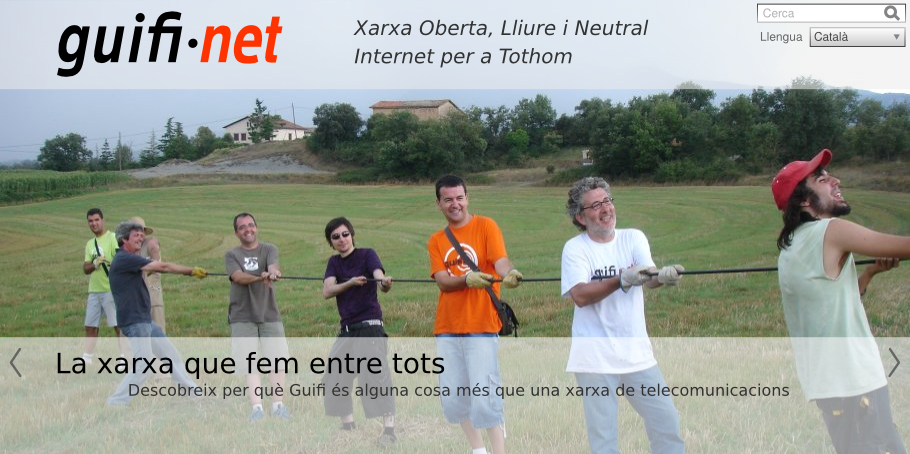
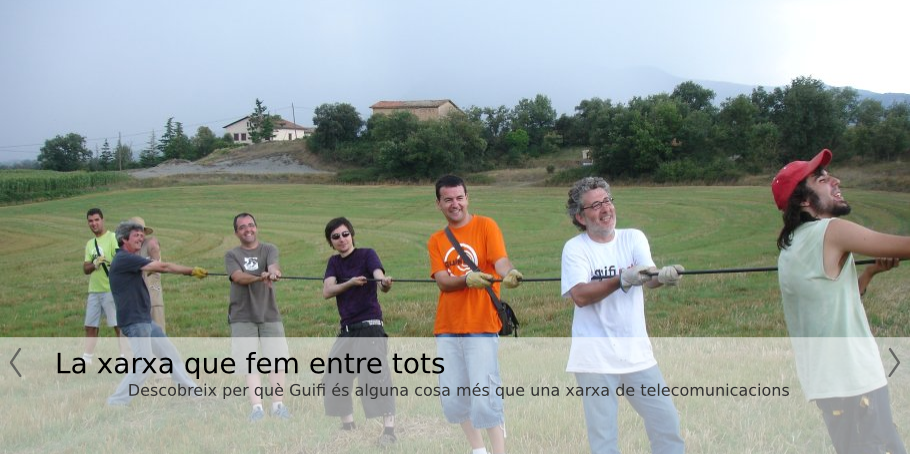
Part superior de la pàgina començada a convertir a HTML

diff --git a/portada.html b/portada.html
@@ -44,26 +44,33 @@
         </div>
         <div id="pagina">
             <div id="principal" style="overflow: hidden">
-                <img src="img/banner.png"/>
+                <div id="banner">
+                    <a href="http://guifi.net" title="Guifi.net" id="logo"><h1><img src="img/guifi-logo.png" alt="Guifi.net" title="Guifi.net" /></h1></a>
+                    <a href="http://guifi.net" title="Guifi.net" id="slogan"><h2>Xarxa Oberta, Lliure i Neutral<br />Internet per a Tothom</h2></a>
+                    <img src="img/capsa-banner.png" style="position:absolute;top:3px;right:3px" />
+                </div>
+                <div id="banner-slider">
+                    <img src="img/banner.png" style="margin-top:-89px" />
+                </div>
                 <div id="cos">
             	    <div id="botons">
                         <a class="capsa boto" id="boto1" href="#">
                             <div class="dins">
-                  	        <h2 class="titol-boto">Què és Guifi.net?</h2>
+                  	        <h3 class="titol-boto">Què és Guifi.net?</h3>
                                 <p class="text-boto">Una xarxa que<br />uneix persones</p>
                                 <div class="fletxa"></div>
                             </div>
                         </a>
                         <a class="capsa boto" id="boto2" href="#">
                             <div class="dins">
-                  	        <h2 class="titol-boto">Experiències</h2>
+                  	        <h3 class="titol-boto">Experiències</h3>
                                 <p class="text-boto">Particulars, empreses,<br />administracions,<br />universitats...</p>
                                 <div class="fletxa"></div>
                             </div>
                         </a>
                         <a class="capsa boto" id="boto3" href="#">
                             <div class="dins">
-                  	        <h2 class="titol-boto">Participa-hi!</h2>
+                  	        <h3 class="titol-boto">Participa-hi!</h3>
                                 <p class="text-boto">Descobreix com pots<br />formar part de Guifi</p>
                                 <div class="fletxa"></div>
                             </div>

diff --git a/css/guifi.css b/css/guifi.css
@@ -21,10 +21,13 @@ body {
 }
 
 #principal {
-    width:910px;
     padding:0 49px 0 0;
     background-image:url(../img/tiles/shadow-bg.png);
     background-position:top right;
+}
+
+#principal,#banner {
+    width:910px;
 }
 
 #cos {
@@ -42,6 +45,58 @@ body {
     -moz-box-shadow:5px 6px 20px #5F5F5F;
     filter:progid:DXImageTransform.Microsoft.dropShadow(color=#5F5F5F,offX=5,offY=6,positive=true);
     position: relative;
+}
+
+/* bàner */
+
+#banner {
+    position:relative;
+    height:89px;
+    z-index: 5;
+    background:transparent url(../img/tiles/banner-bg.png) repeat left top;
+}
+
+#banner a {
+    text-decoration:none;
+}
+
+#banner h1, #banner h2 {
+    margin:0;
+}
+
+
+#logo {
+    float:left;
+    width:225px;
+    height:65px;
+    padding-top:12px;
+    padding-left:57px;
+    margin:0;
+}
+
+#logo img {
+    border:none;
+}
+
+#slogan {
+    float:left;
+    padding-top:13px;
+    padding-left:71px;
+}
+
+#slogan h2 {
+    font-size:20px;
+    line-height:140%;
+    font-style:italic;
+    font-weight:normal;
+    text-decoration:none;
+    color:#323232;
+}
+
+/* final bàner */
+
+#banner-slider {
+    z-index:1;
 }
 
 /* els 3 botons */
